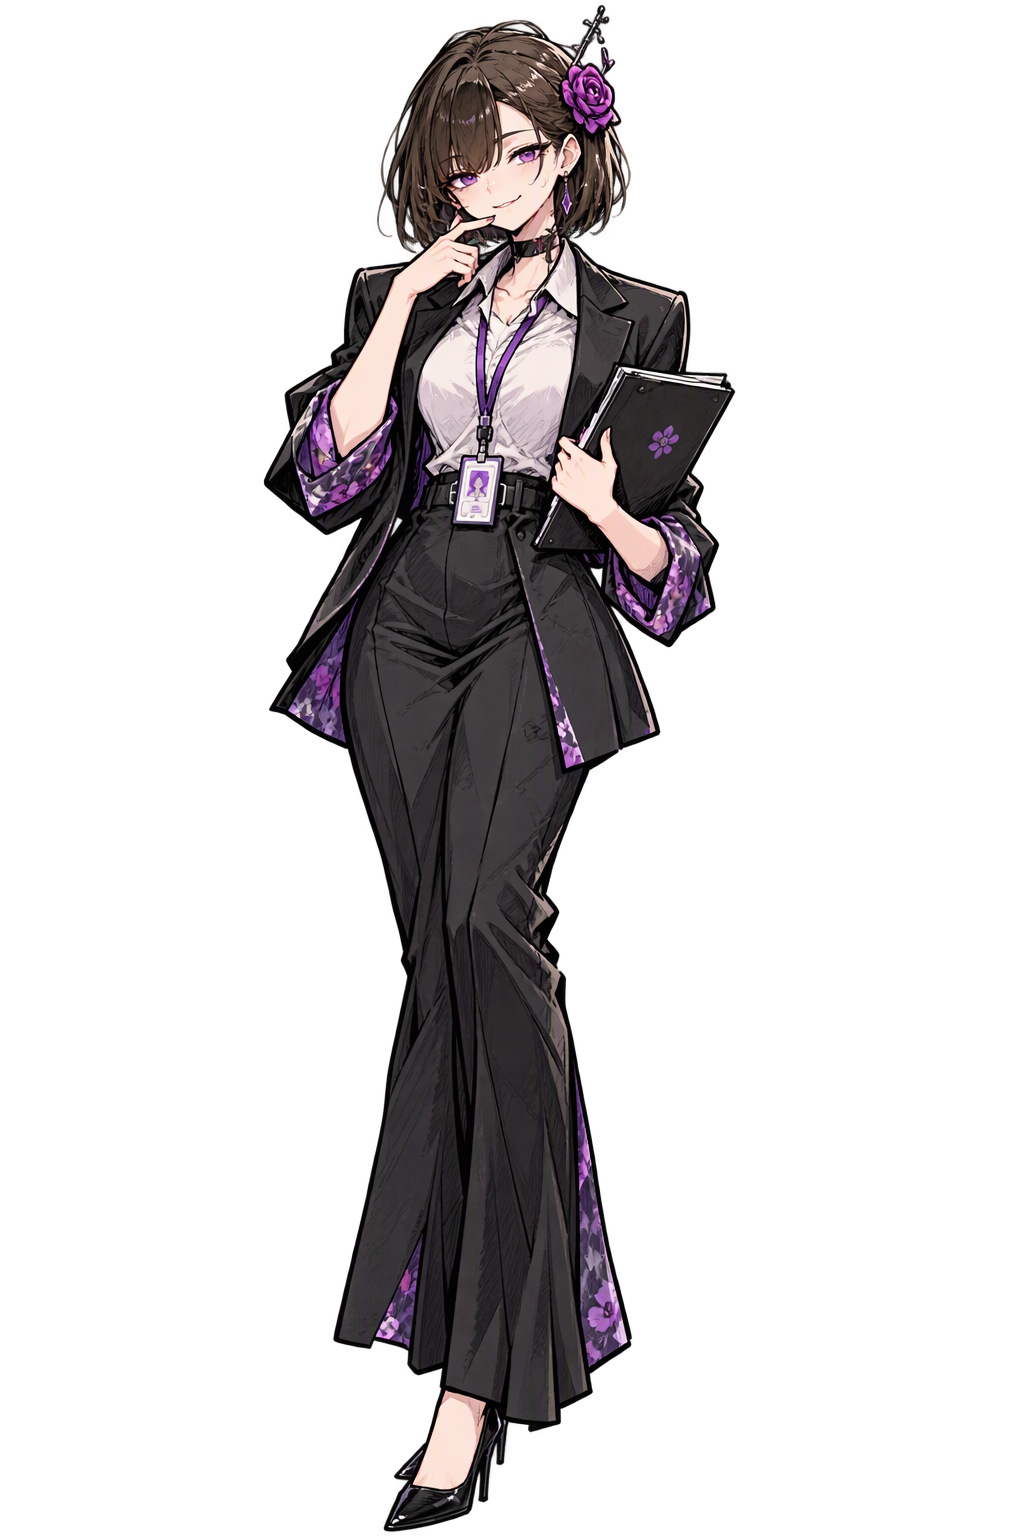
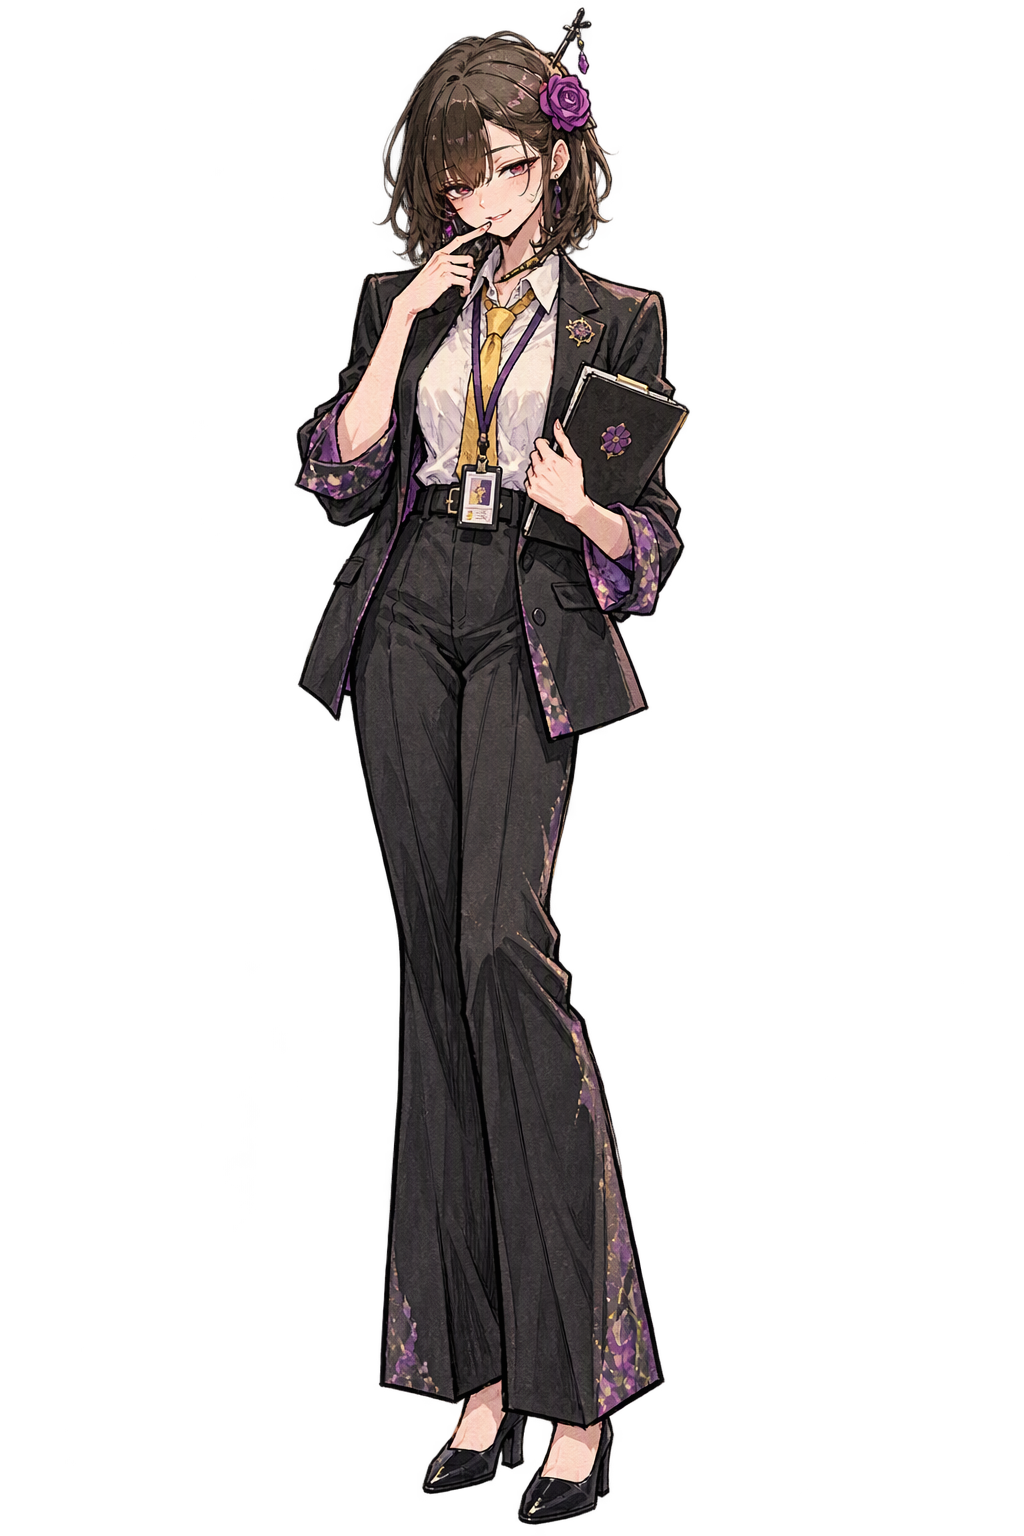
feat: unify intern and Pu Ruisi art to the reference watercolor style

Changed region(s): [[0.25, 0.0, 0.7188, 1.0]]

diff --git a/docs/美术需求表-酒桌文化v1.2.1.md b/docs/美术需求表-酒桌文化v1.2.1.md
@@ -45,6 +45,7 @@
 #### 本轮运行命名与新增状态对齐
 
 - 普瑞斯运行ID与所有新增资源前缀统一为 `pu_rui_si`。当前已有5张**独立半身表情图**：`NPC/pu_rui_si_normal.png`、`NPC/pu_rui_si_final.png`，以及 `Characters/pu_rui_si_smile.png`、`Characters/pu_rui_si_skeptical.png`、`Characters/pu_rui_si_drunk.png`（均在 `/workspace/assets/image/Art/` 下）。这些是整张半身状态图，**不是body/head/face/prop真分层**；已有`body`/`face_final`等文件名也不构成真分层证明，分层仍待完成。本轮不声称全部美术需求完成。
+- **2026-10-15 画风统一重绘**：实习生（`Characters/intern_normal.png`、`intern_portrait.png`）与普瑞斯全套（`Characters/pu_rui_si_body.png`、`pu_rui_si_portrait.png`、`pu_rui_si_smile.png`、`pu_rui_si_skeptical.png`、`pu_rui_si_drunk.png`、`pu_rui_si_face_final.png`，以及同步的 `NPC/pu_rui_si_normal.png`、`NPC/pu_rui_si_final.png`）已按用户参考图（原图三，即 `References/pu_rui_si_reference.png`）的手绘水彩画风重绘，替换掉原先粗墨线漫画风与偏锐利数码绘版本。这属于同一资源的画风替换，**不新增条目**，也不代表分层或表情数量达标。
 - 第22项菜品已补为 **解酒水果 `fruit`**，图标为 `/workspace/assets/image/Art/Dishes/icon_dish_fruit.png`；弥补原21项明细与22项汇总不一致。价格与清醒度效果以运行数据为准，新增此项不等于菜品详情立绘等全部完成。
 - 玩法同步口径：`score`晋升门槛按当前级别为Lv.1–2=45、Lv.3–4=48、Lv.5–6=52、Lv.7–8=55；普通角色同时满足该门槛及`favor>=70`、`sober>=60`、`dignity>=30`、`pro>=5`时晋升+2，区域老板每次升职恒+1。具体规则见配套策划§2.2，资源是否完成须按逐文件清单和质量验收判定。
 
@@ -54,8 +55,8 @@
 | 类别 | 已具备 / 状态 | 缺失与优先级 |
 |------|--------------|--------------|
 | 风格与设定参考 | `image/style_anchor_*.png` 三张风格锚点、`8241da2f-03ef-40dc-a584-2119a85217c7.png` 实习生设定板，以及上述普老板参考图 | **P0**：按用户图冻结日系精细手绘规范；旧锚点仅保留兼容部分，设定板中的文字不入素材 |
-| 可玩角色 | `image/v2_char_intern_normal_20261014125618.png`，实习生1024×1536单张候选 | **P0**：实习生核心6表情及body/head/face/prop分层、头像；其余8名角色未见独立成套资源。扩展angry/smug为P2 |
-| 普老板与NPC | `image/v2_npc_leader_normal_20261014125559.png`，直属领导1024×1024单张候选；普老板仅设定参考板 | **P0**：普老板独立透明立绘、头像、5表情和分层；直属领导余下3表情及分层、老同事/甲方全套。**P2扩展**：大股东/CEO前置精英，不阻塞本轮终局 |
+| 可玩角色 | 实习生已有 `Art/Characters/intern_normal.png`（1024×1536全身）与 `intern_portrait.png`（512×512头像），2026-10-15 已按用户图画风重绘 | **P0**：实习生核心6表情及body/head/face/prop分层；其余8名角色未见独立成套资源。扩展angry/smug为P2 |
+| 普老板与NPC | 普老板已有独立透明立绘 `Art/Characters/pu_rui_si_body.png`、头像 `pu_rui_si_portrait.png` 与5张表情图，2026-10-15 按用户图重绘；直属领导为 `Art/NPC/leader_normal.png` | **P0**：普老板body/head/face/prop真分层；直属领导余下3表情及分层、老同事/甲方全套。**P2扩展**：大股东/CEO前置精英，不阻塞本轮终局 |
 | 背景 | `image/v2_bg_t1_bbq_20261014125730.png`，1920×1080烧烤背景候选 | **P0**：复核烧烤图适配新画风；其余12个背景未见，先补演示所需2场景，再扩至13场景。竖屏版P2；虚化版可后期派生；私人飞机为旧策划隐藏扩展，不计入这13个 |
 | 酒水/菜品 | 未见独立图标或详情立绘 | **P0**：7类酒水图标、菜品图标（生产前旧明细21，本轮补`fruit`后22，新增状态见上文）。**P1**：品牌酒立绘31；**P2**：菜品详情立绘 |
 | UI | `image/v2_ui_01_main_menu_20261014130234.png`、`v2_ui_02_dialogue_20261014130121.png`、`v2_ui_03_feedback_spec_20261014130121.png`及`edited_v2_ui_02_dialogue_review_20261014130501.png`，均为整屏参考，不是切图 | **P0**：无文字按钮/气泡皮肤、5属性图标、8职级徽章。**P1**：场景卡片框、Toast底图、8称号徽章与选择标记。面板/条槽/圆点可由UI组件绘制 |
